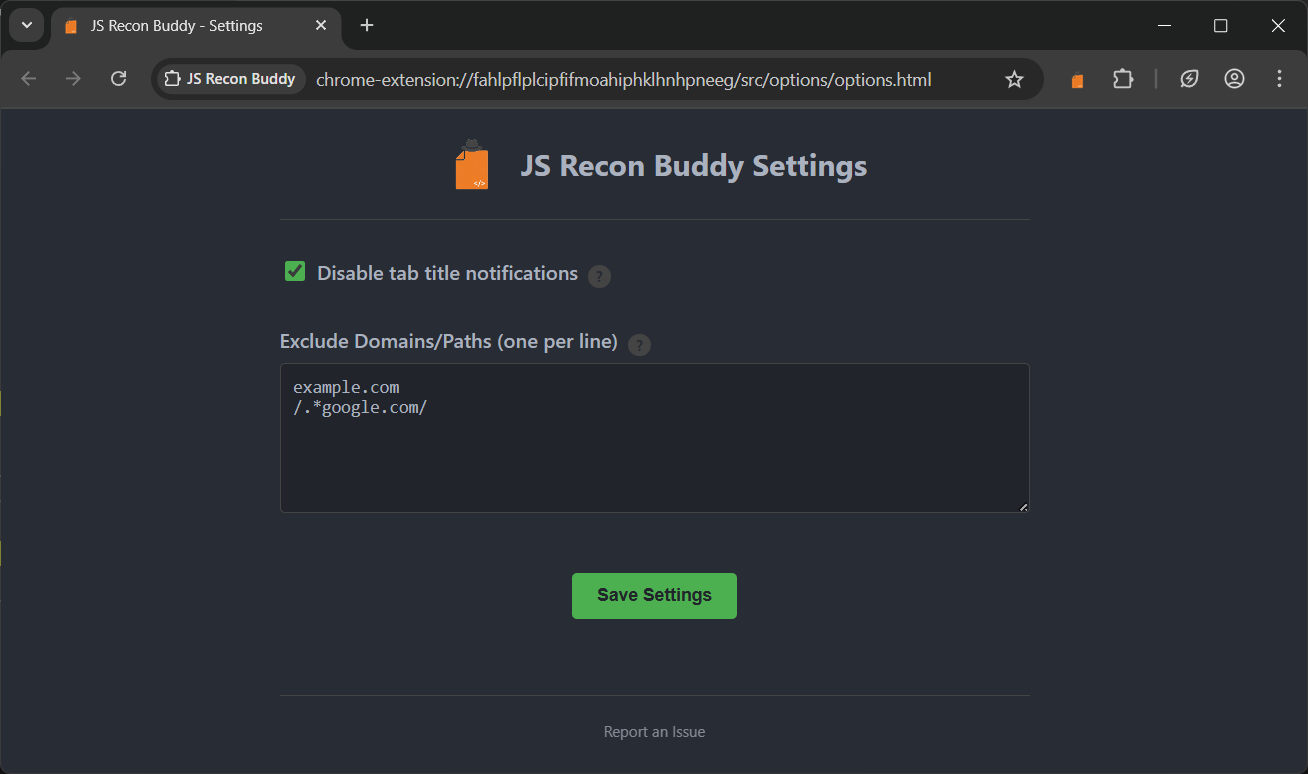
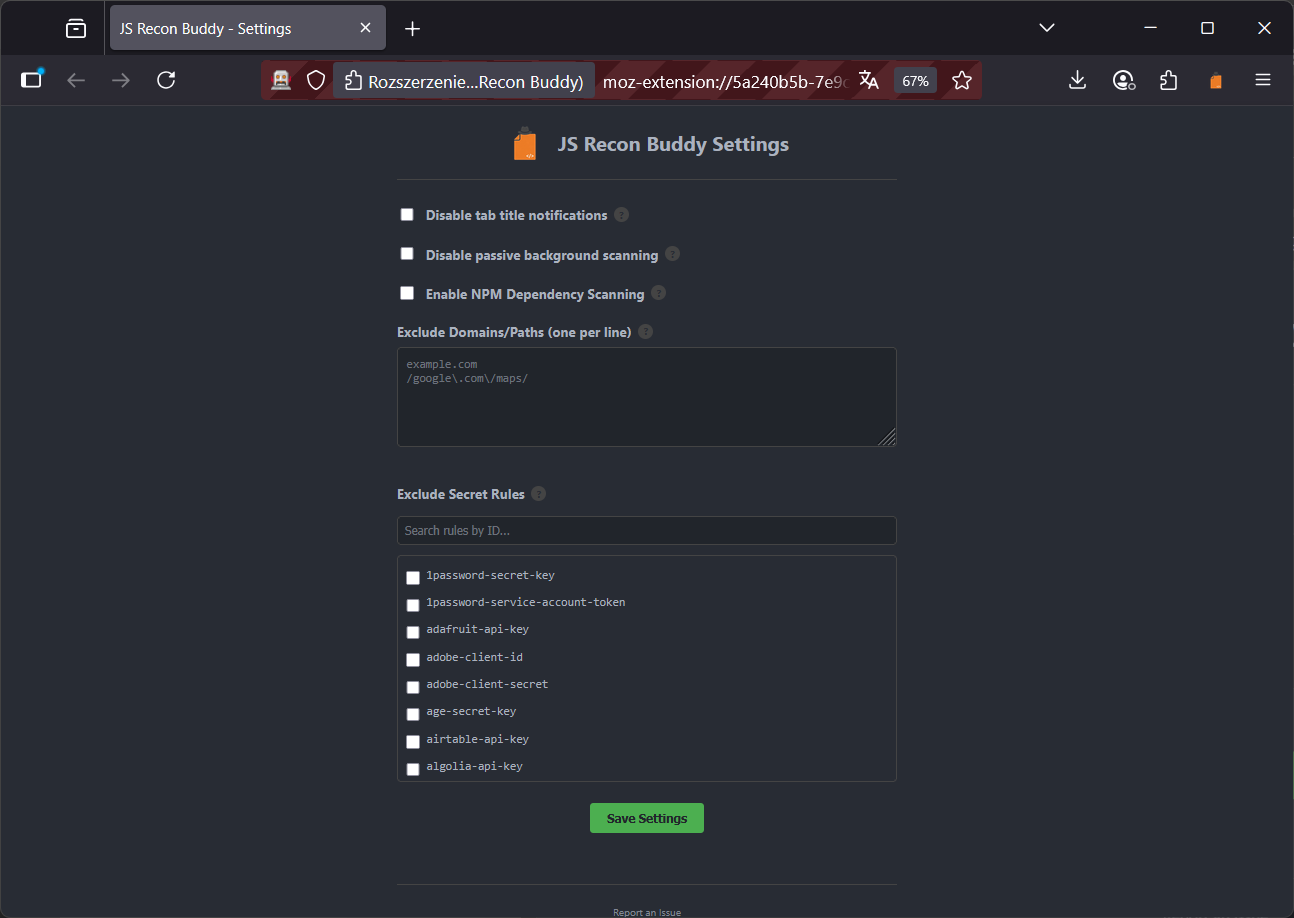
docs: Added entries about new options and on/off toggle. Updated options.html screenshot

diff --git a/assets/dependency-confusion-test/index.html b/assets/dependency-confusion-test/index.html
@@ -1,0 +1,113 @@
+<!DOCTYPE html>
+<html lang="en">
+
+<head>
+    <meta charset="UTF-8">
+    <meta name="viewport" content="width=device-width, initial-scale=1.0">
+    <title>Dependency Confusion Scan Test Page</title>
+    <style>
+        body {
+            font-family: -apple-system, BlinkMacSystemFont, "Segoe UI", Roboto, Helvetica, Arial, sans-serif;
+            line-height: 1.6;
+            color: #333;
+            max-width: 800px;
+            margin: 40px auto;
+            padding: 0 20px;
+            background-color: #f9f9f9;
+        }
+
+        h1 {
+            color: #111;
+            border-bottom: 2px solid #eee;
+            padding-bottom: 10px;
+        }
+
+        p {
+            margin-bottom: 20px;
+        }
+
+        code {
+            background-color: #eee;
+            padding: 2px 6px;
+            border-radius: 4px;
+            font-family: "SFMono-Regular", Consolas, "Liberation Mono", Menlo, monospace;
+        }
+
+        .container {
+            background-color: #fff;
+            padding: 30px;
+            border-radius: 8px;
+            box-shadow: 0 2px 10px rgba(0, 0, 0, 0.05);
+        }
+
+        .expected {
+            border-left: 4px solid #4CAF50;
+            padding-left: 15px;
+            background-color: #f0fff0;
+        }
+
+        .expected strong {
+            color: #2E7D32;
+        }
+    </style>
+</head>
+
+<body>
+    <div class="container">
+        <h1>NPM Dependency Scan Test Page</h1>
+        <p>
+            This page contains references to both public and fake (private) NPM packages. Run
+            <strong>"Analyze Full Page"</strong> on-demand scanner to test the dependency confusion detection.
+        </p>
+        <div class="expected">
+            <p>
+                <strong>Expected Findings:</strong> The extension should identify the following three packages as
+                potential dependency confusion vulnerabilities because they are scoped and do not exist on the public
+                NPM registry:
+            </p>
+            <ul>
+                <li><code>@my-private-corp/internal-ui-kit</code></li>
+                <li><code>@my-secret-project/shared-utils</code></li>
+                <li><code>@internal-logging/service</code></li>
+            </ul>
+        </div>
+    </div>
+
+    <!--
+      Test Case 1: A fake package.json object embedded in the page.
+      This simulates a scenario where build tools bundle package information.
+    -->
+    <script type="application/json" id="package-info">
+    {
+      "name": "@my-private-corp/internal-ui-kit",
+      "version": "1.2.3",
+      "description": "Internal UI components for our company portal.",
+      "dependencies": {
+        "react": "^18.2.0"
+      }
+    }
+    </script>
+
+    <!--
+      Test Case 2: JavaScript code with various import and require statements.
+      - The extension should find "@my-secret-project/shared-utils" and "@internal-logging/service".
+      - It should IGNORE "react" and "lodash" because they are public packages.
+    -->
+    <script>
+        // EXPECTED FINDING.
+        import utils from '@my-secret-project/shared-utils';
+
+        // This is a real, public package. Should be ignored.
+        import React from 'react';
+
+        // EXPECTED FINDING.
+        const logger = require('@internal-logging/service');
+
+        // This is a real, public package. Should be ignored.
+        const _ = require('lodash');
+
+        console.log('Test script loaded.');
+    </script>
+</body>
+
+</html>

diff --git a/README.md b/README.md
@@ -68,10 +68,15 @@ The scanner uses a set of regex patterns to identify and categorize potential se
 | **`write`** | HTML/DOM | `document.write("Welcome " + new URLSearchParams(location.search).get('name'));`|
 | **`writeln`** | HTML/DOM | `document.writeln(new URLSearchParams(location.search).get('line'));` |
 
+- Potential Dependency Confusion - (**opt-in**) identifies private NPM packages that are not on the public registry, flagging a potential dependency confusion attack vector.
+
+    > You can test this feature by cloning this repository, opening the `assets/dependency-confusion-test/index.html` file in your browser, and running an on-demand scan.
+
 - Interesting Parameters - flags potentially vulnerable URL parameters (e.g., redirect, debug, url).
 - Source Maps - finds links to source maps which can expose original source code.
 > If it is a valid source map, the extension tries to deconstruct source files based on data there
 - JS Libraries - lists identified JavaScript libraries and their versions.
+- External and Inline Scripts - provides a complete inventory of all JavaScript sources loaded by the page, allowing you to view the content of any script in a formatted viewer.
 
 
 
@@ -152,7 +157,7 @@ This approach was chosen to avoid maintaining two separate versions of the exten
 
 ### Chromium-based browser
 
-While I strongly advice for this extension to be loaded as an unpacked extension in developer mode, it can be installed [directly from the Chrome Web Store](https://chromewebstore.google.com/detail/emihdlmaomlajmkaanockgjhojehafnp). 
+While I strongly advice for this extension to be loaded as an unpacked extension in developer mode, it can be installed [directly from the Chrome Web Store](https://chromewebstore.google.com/detail/emihdlmaomlajmkaanockgjhojehafnp).
 
 However, if you decide to do it manually, here are the steps:
 
@@ -174,7 +179,11 @@ You can find my extension [here in the official Add-on Store](https://addons.moz
 
 ## How to use?
 
-### Main usage
+### Master On/Off Toggle
+
+A master `On/Off` switch is available in the top-right corner of the popup. When turned off, the extension will completely suspend all scanning functions (both passive and on-demand) until it is turned back on.
+
+### Main usage (on-demand scan)
 
 1. Navigate to the target website.
 2. Click the extension icon in your browser's toolbar.
@@ -238,10 +247,17 @@ You can customize the extension's behavior by opening the settings page. Access 
 
 - Disable tab title notifications - by default, the extension adds a `[JSRB (x)]` prefix to the page title when findings are discovered. Check this box to turn off this feature for a cleaner look.
 
+- Disable passive background scanning - prevents the extension from automatically scanning pages on load. This does not affect the on-demand "Analyze Full Page" scan.
+
+- Enable NPM Dependency Scanning - an opt-in feature for the on-demand scan. When enabled, the scanner will check for private NPM packages that could be vulnerable to dependency confusion.
+    > **WARNING**: This makes requests to a public NPM registry.
+
 - Exclude Domains/Paths - this feature allows you to prevent the extension from scanning specific websites. You can add one entry per line:
 
     - Simple Match - entering `example.com` will prevent scans on any URL containing that string.
     - Regular Expression - for more complex rules, you can use regular expressions by enclosing the pattern in slashes, like `/google\.com\/maps/`.
+
+- Exclude Secret Rules - a searchable list that allows you to disable specific secret-finding rules. This is useful for reducing noise from patterns that are not relevant to your current target.
 
 When a page is excluded from scanning, the extension icon will remain unchanged, and no analysis will be performed, as shown below for `example.com`.
 
